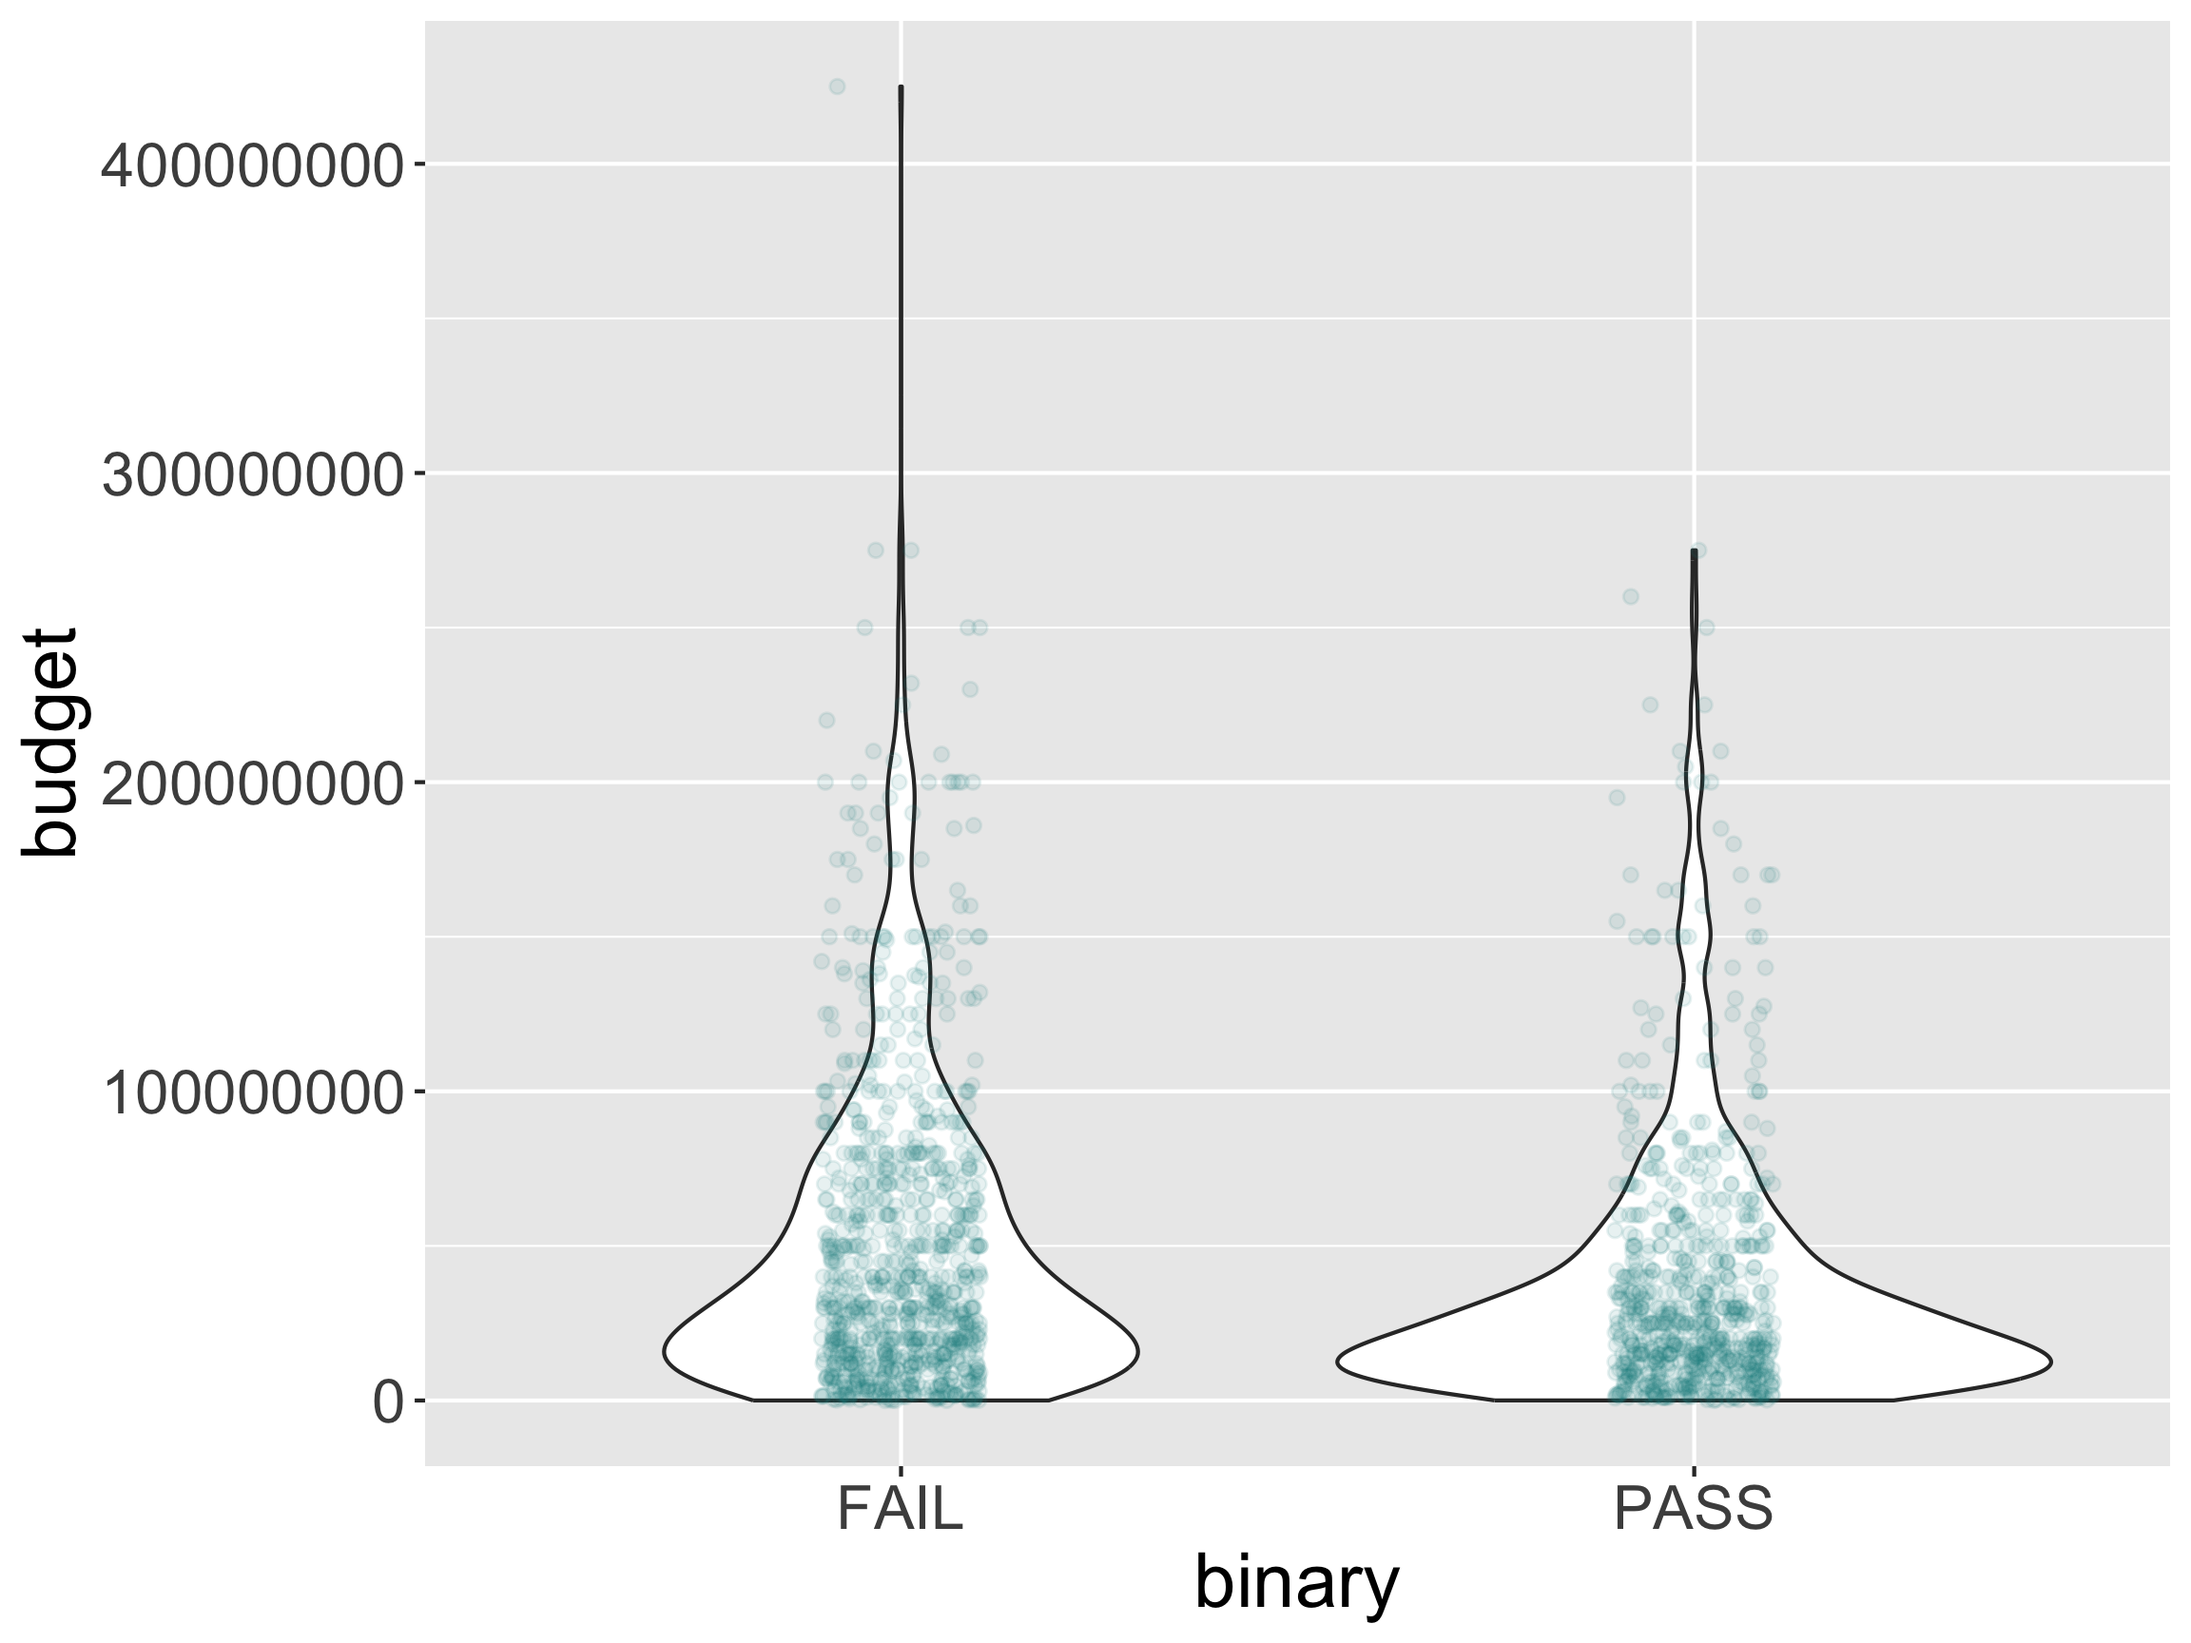
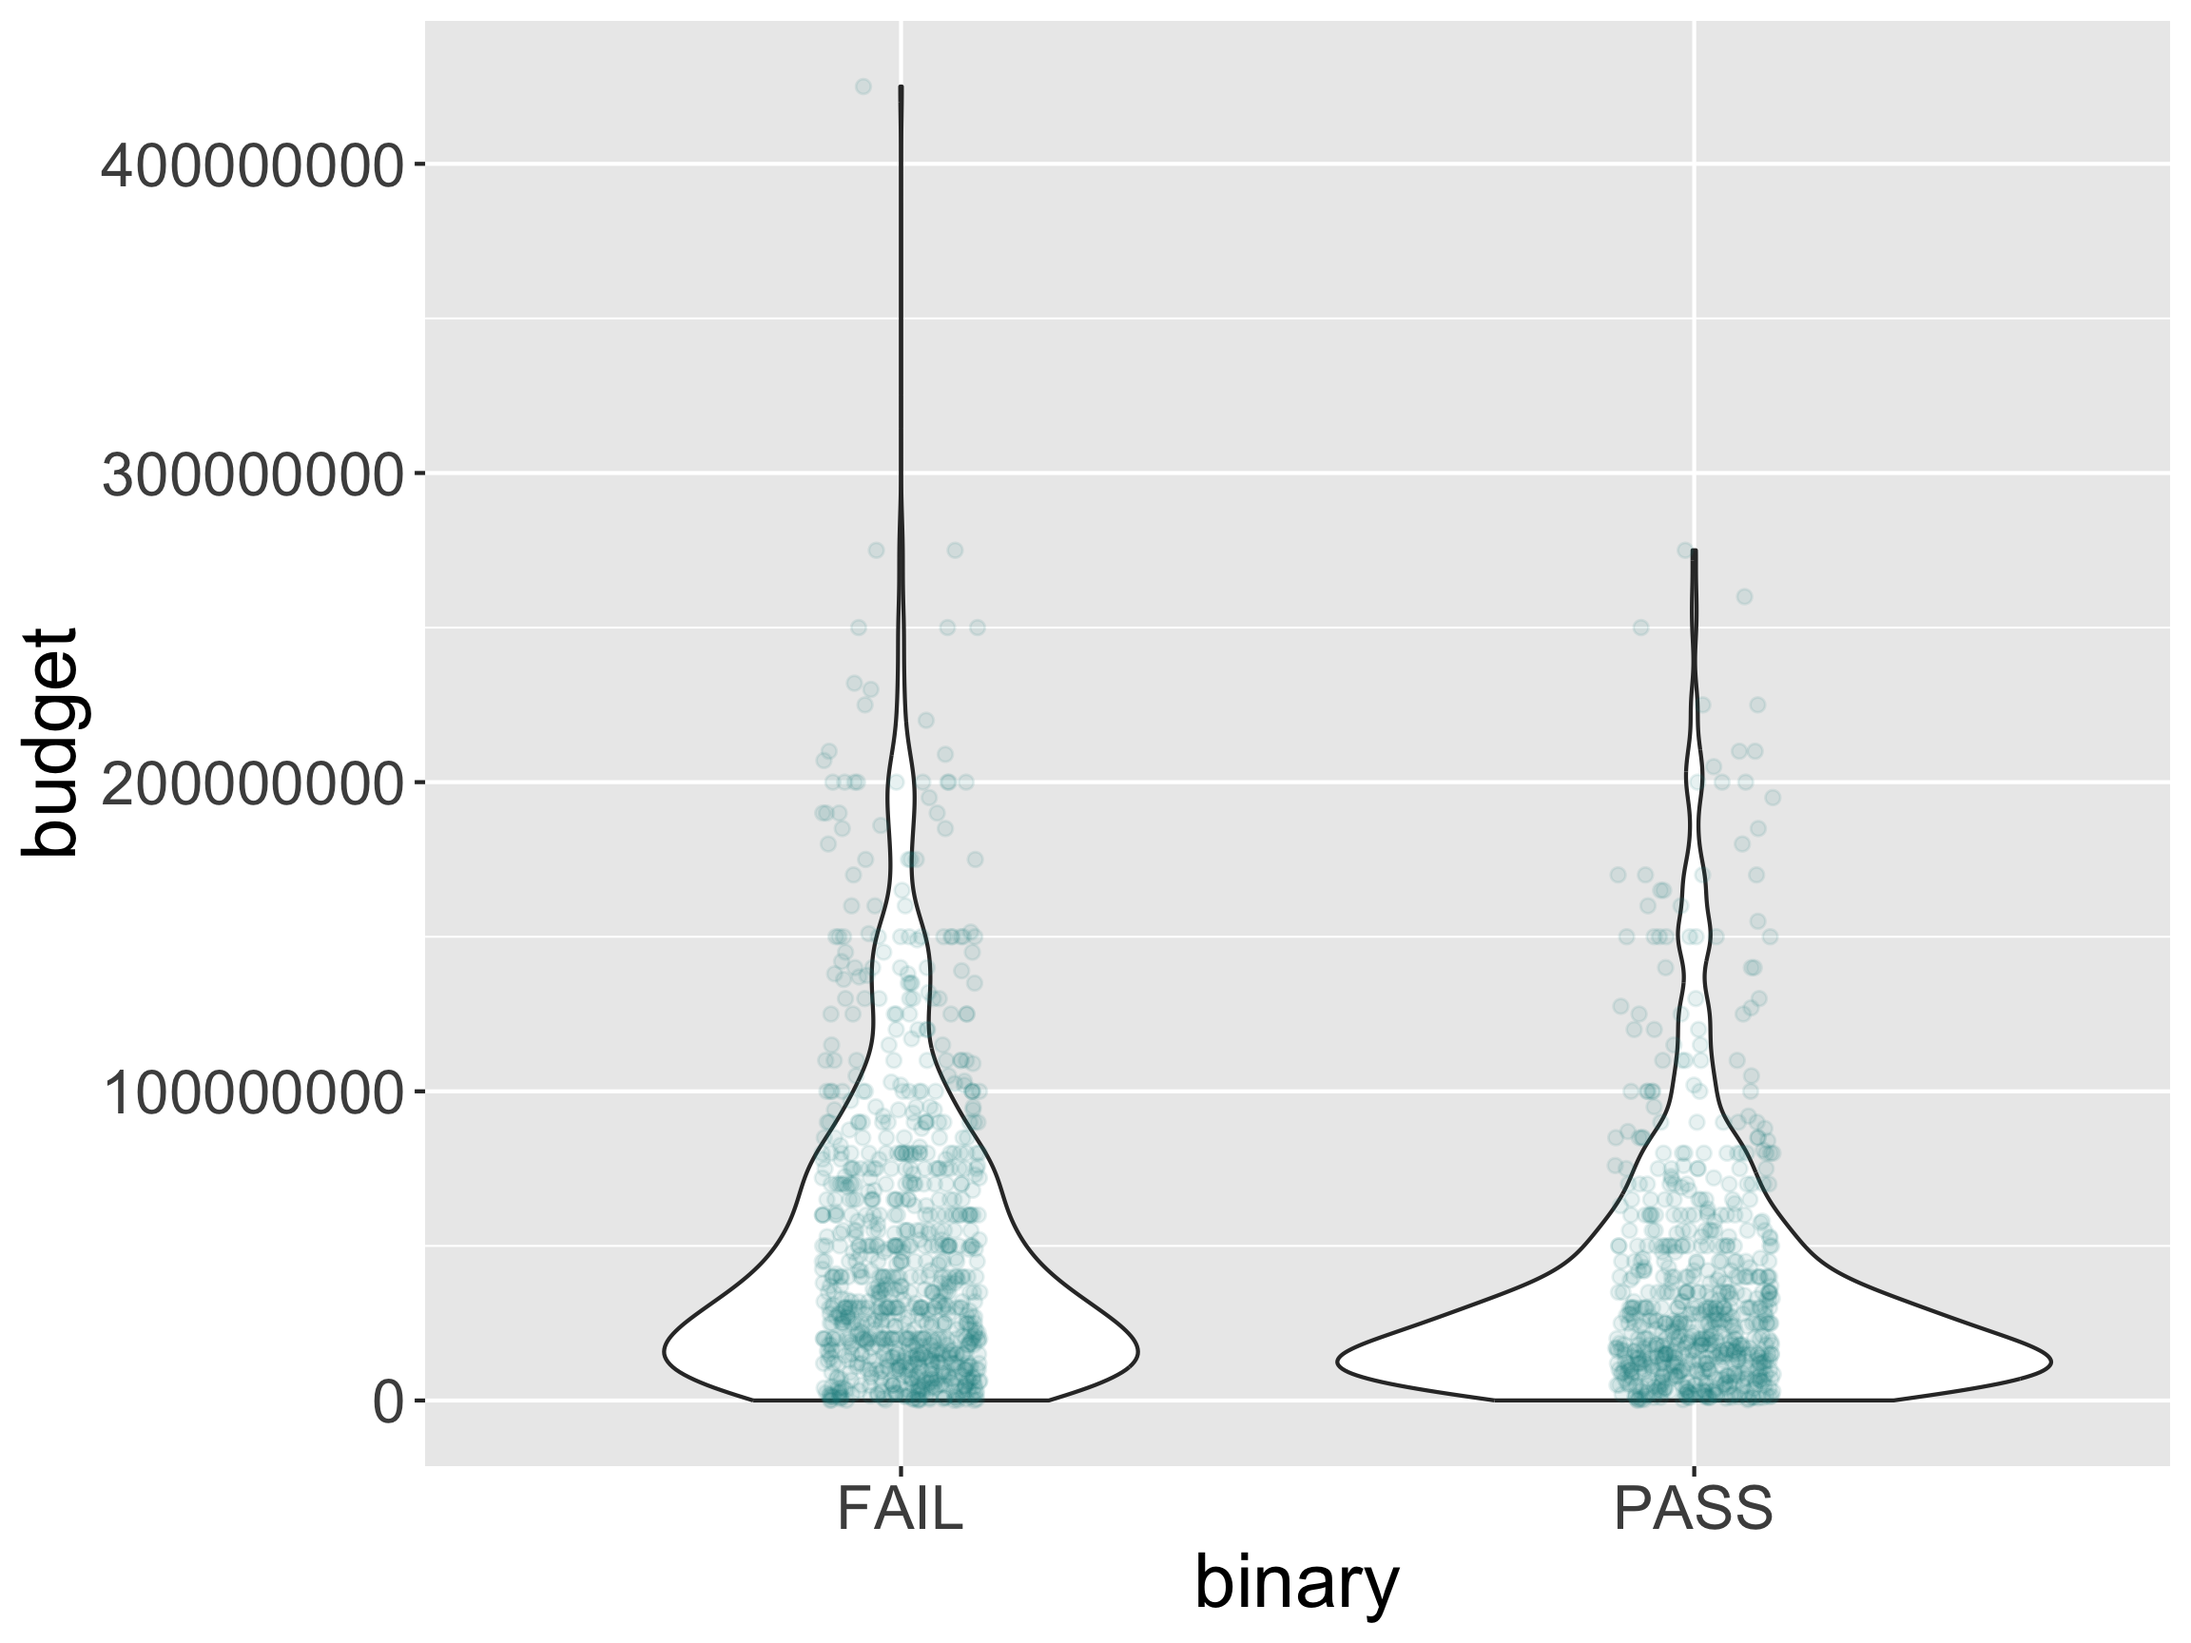
update slides for week 2.

diff --git a/docs/slides/math241_wk02mon.html b/docs/slides/math241_wk02mon.html
@@ -216,25 +216,26 @@
 <section id="announcements" class="slide level2">
 <h2>Announcements</h2>
 <ul>
-<li><a href="https://reed-data-science.github.io/office_hours.html">Office Hours Schedule</a> is now posted on the course website.
+<li><a href="https://stat-241-f26.github.io/office_hours.html">Office Hours Schedule</a> is now posted on the course website.
 <ul>
 <li>We will try to stick to this schedule, but if one of us has to reschedule, we will send a Slack message and update the schedule.</li>
 </ul></li>
-<li>P-Set 0 due at 9am on <strong>WEDNESDAY</strong> (all other p-sets will be due on Thursdays).</li>
+<li>P-Set 0 due at noon on Tuesday, Sep 15.</li>
 </ul>
 </section>
-<section id="week-2-goals" class="slide level2">
-<h2>Week 2 Goals</h2>
+<section id="upcoming-goals" class="slide level2">
+<h2>Upcoming Goals</h2>
 <div class="columns">
 <div class="column fragment" style="width:50%;">
-<p><strong>Mon Lecture</strong></p>
+<p><strong>Today</strong></p>
 <ul>
-<li><p>Basics of <code>ggplot2</code></p></li>
+<li><p>An activity.</p></li>
+<li><p>Basics of <code>ggplot2</code>.</p></li>
 <li><p>Explore several <code>geoms</code>.</p></li>
 <li><p>And a little data wrangling with <code>dplyr</code> as needed!</p></li>
 </ul>
 </div><div class="column fragment" style="width:50%;">
-<p><strong>Wed Lecture</strong></p>
+<p><strong>Next Week</strong></p>
 <ul>
 <li>GitHub workflow overview</li>
 <li>Graphing context!
@@ -252,6 +253,11 @@
 <li>Learn how to ask coding questions well.</li>
 </ul>
 </div></div>
+</section>
+<section>
+<section id="first-activity" class="title-slide slide level1 center">
+<h1>First: Activity</h1>
+
 </section>
 <section id="recall-the-grammar-of-graphics" class="slide level2">
 <h2>Recall: The Grammar of Graphics</h2>
@@ -774,7 +780,7 @@ $ imdb_votes    &lt;dbl&gt; 143446, 87301, 43608, 25735, 123837, 85871, 18973, 1
 $ error         &lt;lgl&gt; NA, NA, NA, NA, NA, NA, NA, NA, NA, NA, NA, NA, NA, NA, …</code></pre>
 </div>
 </div>
-</section>
+</section></section>
 <section>
 <section id="what-are-useful-geoms-for-describing-amountsfrequencies" class="title-slide slide level1 center">
 <h1>What are useful <code>geom</code>s for describing amounts/frequencies?</h1>
@@ -1282,11 +1288,9 @@ $ error         &lt;lgl&gt; NA, NA, NA, NA, NA, NA, NA, NA, NA, NA, NA, NA, NA, 
 <section id="reminders" class="slide level2">
 <h2>Reminders</h2>
 <ul>
-<li><a href="https://reed-data-science.github.io/office_hours.html">Office Hours Schedule</a></li>
-<li>P-Set 1 released at 9am on Thursday.
-<ul>
-<li>Will discuss how to access the p-sets through GitHub on Wednesday.</li>
-</ul></li>
+<li><a href="https://stat-241-f26.github.io/office_hours.html">Office Hours Schedule</a>.</li>
+<li>P-Set 0 due at noon on Tuesday, Sep 15.</li>
+<li>P-Set 1 will also be released at noon on Tuesday, Sep 15.</li>
 </ul>
 
 
